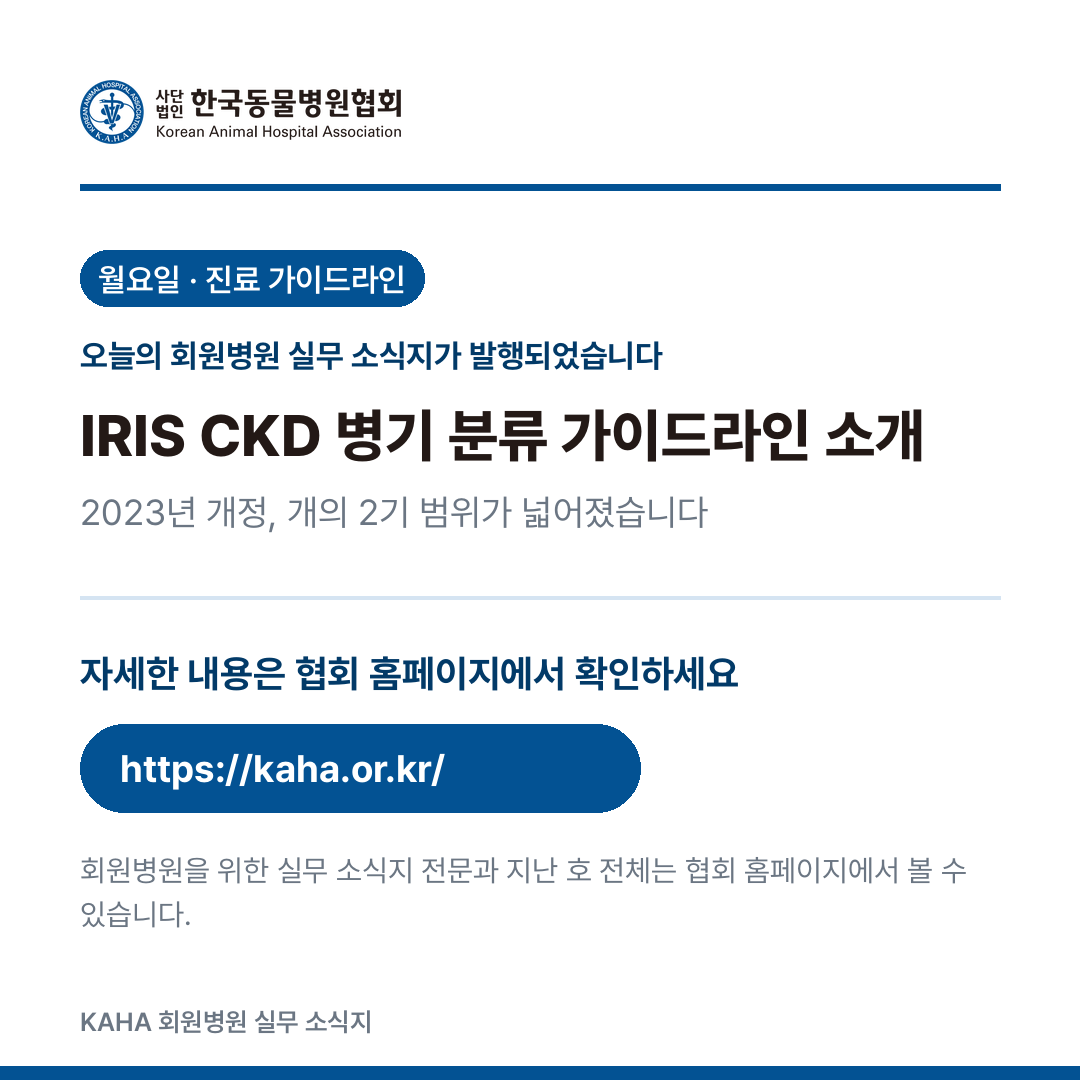
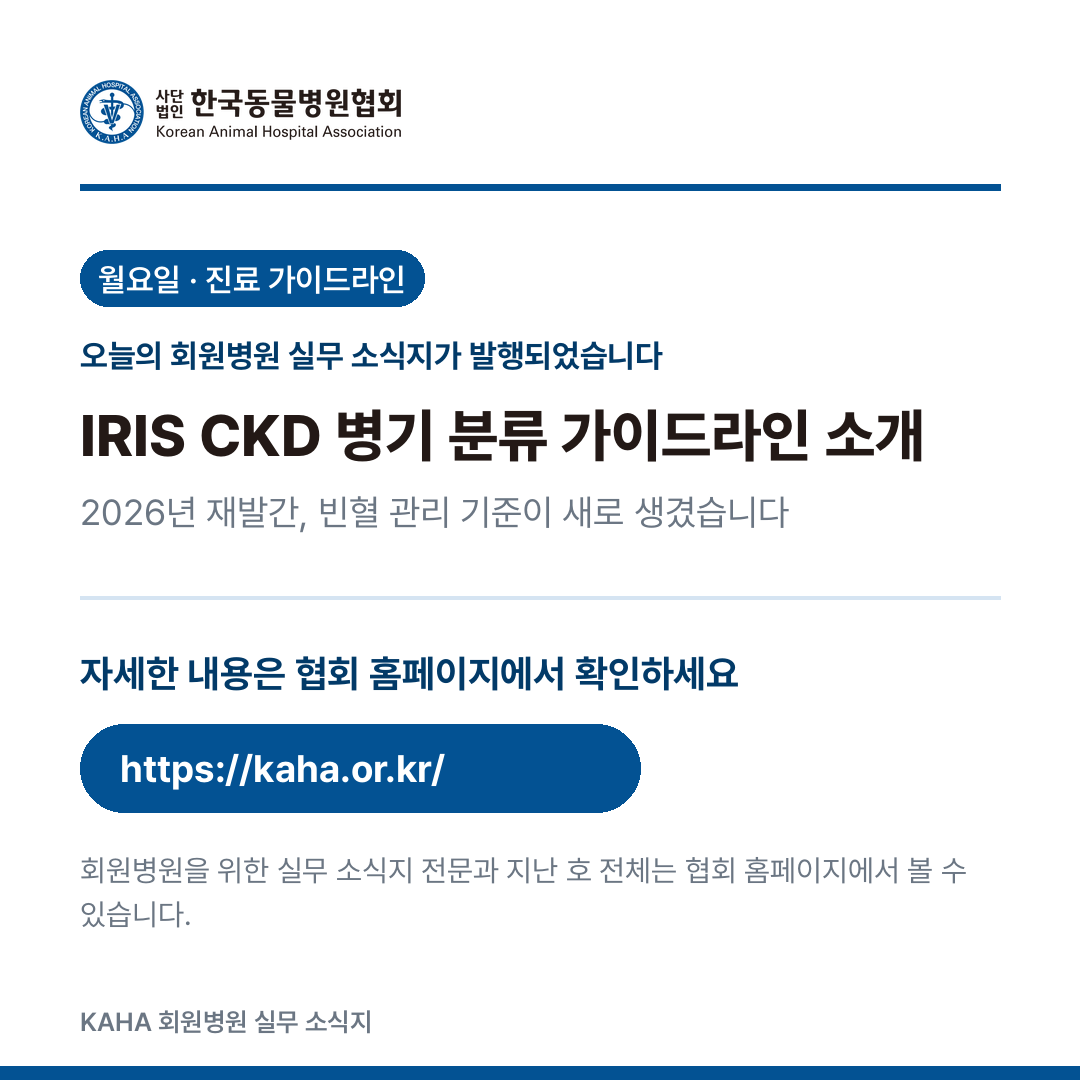
KAHA 소식지 2026-09-21 정정 — IRIS 2026년 재발간 반영
2023년 개정을 최신으로 소개했으나, IRIS가 2026년 6월 핵심 문서를
2026년판으로 재발표한 사실을 확인해 반영. 병기 구간 수치는 2023년판과
동일하나 SDMA 위상 격상, 빈혈 관리(HCT) 기준 신설, iCatCare 2026
고양이 CKD 가이드라인을 새로 추가. factcheck에 정정 경위 기록.

Claude-Session: https://claude.ai/code/session_01KasisTUkYZd84y4vpa2riW

Changed region(s): [[0.1833, 0.4583, 0.7333, 0.4889], [0.1222, 0.4583, 0.1528, 0.4889]]

diff --git a/issues/2026-09-21.md b/issues/2026-09-21.md
@@ -1,4 +1,4 @@
-# [월요일 · 진료 가이드라인] IRIS 만성신장병(CKD) 병기 분류 가이드라인 소개 — 2023년 개정, 개의 2기 범위가 넓어졌습니다
+# [월요일 · 진료 가이드라인] IRIS 만성신장병(CKD) 병기 분류 가이드라인 소개 — 2026년 재발간, 빈혈 관리 기준이 새로 생겼습니다
 
 > **KAHA 회원병원 실무 소식지** · 2026-09-21 (월) · 발행: 한국동물병원협회
 > 월요일은 해외 최신 진료 가이드라인을 소개해 드립니다. 반드시 원문과 함께 확인하세요.
@@ -7,11 +7,13 @@
 
 ## 무엇이 나왔나
 
-국제신장질환연구회(IRIS)는 개·고양이의 만성신장병(CKD)을 **혈청 크레아티닌(± SDMA)** 을 기준으로 1~4기로 나누고, 여기에 **단백뇨(UPC 비율)와 전신 혈압**으로 세부 병기(substage)를 더하는 병기 분류 체계를 제시합니다. 진단명이 같아도 병기에 따라 권고되는 검사 주기와 관리 강도가 달라지므로, 국제적으로 가장 널리 인용되는 수의 신장내과 분류 기준입니다. 2023년 개정에서는 **개의 병기 구간이 조정**되었는데, 기존 3기 안에 임상증상이 거의 없는 개부터 심한 요독 증상을 보이는 개까지 편차가 너무 크다는 문제 때문에 2기 범위를 넓히고 3기 하한을 올렸습니다. 이번 호에서는 개정된 병기표와 세부 병기 기준을 소개합니다.
+국제신장질환연구회(IRIS)는 개·고양이의 만성신장병(CKD)을 **혈청 크레아티닌(± SDMA)** 을 기준으로 1~4기로 나누고, 여기에 **단백뇨(UPC 비율)와 전신 혈압**으로 세부 병기(substage)를 더하는 병기 분류 체계를 제시합니다. 진단명이 같아도 병기에 따라 권고되는 검사 주기와 관리 강도가 달라지므로, 국제적으로 가장 널리 인용되는 수의 신장내과 분류 기준입니다.
+
+IRIS 이사회는 2026년 6월, 병기 분류(CKD Staging)·치료 권고(개·고양이)·급성신손상(AKI) 등급 문서를 **2026년판으로 다시 발표**했습니다. 병기 구간의 크레아티닌 수치 자체는 2023년 개정판(개의 2기 범위를 넓히고 3기 하한을 올린 개정)과 **동일하게 유지**되었고, 이번 2026년판의 핵심 변화는 **SDMA의 위상**과 **빈혈 관리 기준**입니다. 이번 호에서는 현재 유효한 병기표와 함께 2026년판에서 새로 추가된 내용을 소개합니다.
 
 ## 병기 분류표(혈청 크레아티닌 기준) — 이 가이드라인의 권고
 
-**개 (2023년 개정)**
+**개 (2026년판에도 유지된 2023년 개정 수치)**
 
 | 병기 | 크레아티닌 |
 |---|---|
@@ -31,12 +33,19 @@
 
 **2023년 개정의 핵심 — 개 2기·3기 경계가 바뀌었습니다.** 개정 전에는 개의 2기 상한이 더 낮고 3기 폭이 넓었는데, 2023년 개정에서 개의 2기 상한을 고양이와 같은 2.8mg/dL로 넓히고 3기를 2.9mg/dL부터 시작하도록 바꿨습니다. 그 결과 예전 기준이었다면 3기로 분류되었을, 임상증상이 거의 없는 개들이 이제 2기로 재분류됩니다. 1기는 수치가 정상 범위 안에 있어도 **요 농축력 저하, 신장 초음파 구조 이상, 지속적인 신성 단백뇨** 등 신장병의 다른 근거가 있으면 진단할 수 있다고 설명합니다.
 
-## SDMA — 이 가이드라인의 권고
+## SDMA — 2026년판에서 위상이 바뀌었습니다
 
-- IRIS는 크레아티닌만으로는 신장 기능 저하 초기를 놓칠 수 있어, **SDMA(대칭성 디메틸아르기닌)를 크레아티닌과 함께 병행 확인**하도록 권고합니다.
-- **SDMA 18μg/dL 미만**을 참고 범위(1기 수준)로 제시합니다. 이 값을 넘으면 신장 기능 저하를 의심할 근거로 볼 수 있다고 설명합니다.
-- 크레아티닌과 SDMA가 서로 다른 병기를 가리키면, **더 진행된 쪽 수치를 기준으로 병기를 정하도록** 권고합니다.
+- 이전까지 SDMA는 크레아티닌에 곁들이는 "권장 보조지표"로 소개되는 경우가 많았는데, **2026년판은 SDMA를 병기 판정의 필수 구성요소로 격상**해 강조합니다. 근육량 감소가 있는 환자에서는 크레아티닌보다 SDMA가 신장 기능 저하를 더 일찍 반영할 수 있다는 점이 근거입니다.
+- **SDMA 18μg/dL 미만**을 1기 수준의 참고 범위로 제시합니다(검사 키트별 정상 참고치는 통상 14 전후로 더 낮게 잡히는 경우가 많아, 두 수치가 다르다고 해서 오류는 아닙니다 — IRIS 병기 판정용 컷오프와 검사기관의 정상 참고구간은 별개로 관리됩니다).
+- 크레아티닌과 SDMA가 서로 다른 병기를 가리키면, **반복 측정으로 재확인한 뒤 더 진행된(높은) 쪽 수치를 기준으로 병기를 정하도록** 권고합니다.
 - 병기 판정은 **탈수되지 않은 안정 상태에서, 1주 이상 간격을 두고 2회 이상 측정**해 확인하도록 권고합니다(한 번의 수치로 단정하지 않음).
+
+## 빈혈 관리 — 2026년판에서 새로 생긴 기준
+
+- 2026년판 치료 권고에는 CKD 빈혈 치료를 시작할 **헤마토크릿(HCT) 수치 기준**이 처음으로 구체적으로 제시되었습니다.
+  - **개**: HCT 30% 미만이면 치료를 시작하고, 30～35% 사이가 지속되면 치료를 고려하도록 권고합니다.
+  - **고양이**: HCT 25% 미만이면 치료를 시작하고, 25～28% 사이가 지속되면 치료를 고려하도록 권고합니다.
+- 치료 옵션으로 기존의 다르베포에틴·수혈에 더해, **HIF-PH 억제제 계열(몰리두스타트 등)** 을 새로운 선택지로 언급합니다. 다만 이 계열 약물의 구체적 용법·용량은 검증 범위 내에서 신뢰할 수 있는 독립 출처를 충분히 교차 확인하지 못해 이번 호에는 싣지 않았습니다.
 
 ## 세부 병기(substage) — 이 가이드라인의 권고
 
@@ -61,6 +70,10 @@
 
 단백뇨와 고혈압은 같은 병기 안에서도 따로, 또는 함께 나타날 수 있어 병기마다 개별적으로 확인하도록 권고합니다.
 
+## 고양이는 별도로, 10년 만의 대규모 개정도 있었습니다
+
+IRIS 자체 문서와는 별개로, 고양이 임상만 다루는 국제 자문기구인 **iCatCare**가 2026년 *Journal of Feline Medicine and Surgery*에 고양이 CKD 진단·관리에 관한 합의 가이드라인을 새로 발표했습니다. 관련 소개 자료에 따르면 **10년 만의 첫 대규모 개정**이라고 합니다. 이 가이드라인은 고령묘에서 SDMA 18μg/dL 이상을 기준으로 삼자는 제안도 포함하고 있는데, 이는 IRIS의 공식 병기 컷오프 변경이 아니라 **iCatCare 측의 별도 제안**이므로 구분해서 받아들이시기 바랍니다.
+
 ## 국내 근거 — 제도화된 기준은 확인되지 않았고, 협회 양식에는 이미 관련 안내문이 있습니다
 
 - 국내에 IRIS에 준하는 정부·검역본부·국내 학회 차원의 공식 CKD 병기 분류 기준이 있는지는 검색 범위 내에서 확인되지 않았습니다. 국내 자료는 제한적이며, 이번 호는 해외 학술 지침의 소개에 그칩니다.
@@ -71,6 +84,7 @@
 - [ ] 크레아티닌 상승이나 임상 소견이 있는 환자에서 SDMA를 함께 확인하는가
 - [ ] 병기 판정 전, 안정 상태에서 간격을 두고 재검사해 확인하는가
 - [ ] 신장병 환자에서 UPC(단백뇨)와 혈압을 정기적으로 함께 확인하는가
+- [ ] 진행성 CKD 환자에서 헤마토크릿(HCT)을 정기적으로 확인하고, 기준 이하로 떨어지면 빈혈 관리를 검토하는가
 - [ ] 병기별로 재검사 주기와 관리 강도를 구분해 보호자에게 안내하는가
 - [ ] 보호자 설명 시 「만성 신장병 안내문」 등 문서를 함께 활용하는가
 
@@ -78,9 +92,11 @@
 
 - [IRIS Kidney 공식 — IRIS Staging System](https://www.iris-kidney.com/iris-staging-system)
 - [IRIS Kidney 공식 — IRIS Guidelines](https://www.iris-kidney.com/iris-guidelines-1)
+- [IRIS Staging of CKD (Modified 2026) — IRIS Kidney 공식 문서](https://static1.squarespace.com/static/666b9ecb4064a156963b4162/t/6a53129b031ea43169a7a89f/1783829156676/IRIS_staging_guidelines+2026.pdf)
 - [IDEXX: IRIS CKD Staging Guidelines for Cats and Dogs](https://www.idexx.com/en/veterinary/reference-laboratories/sdma/sdma-iris/)
 - [MSPCA-Angell: Proteinuria in Dogs](https://www.mspca.org/clinical/proteinuria-in-dogs/)
-- [Today's Veterinary Practice: IRIS CKD Staging (자료 아카이브)](https://todaysveterinarypractice.com/wp-content/uploads/sites/4/2022/02/IRIS_Staging_of_CKD_modified_2019.pdf)
+- [2026 iCatCare consensus guidelines on the diagnosis and management of chronic kidney disease in cats — J Feline Med Surg (SAGE, DOI: 10.1177/1098612X261466553)](https://doi.org/10.1177/1098612X261466553)
+- [dvm360: New iCatCare guidelines update feline chronic kidney disease care](https://www.dvm360.com/view/new-icatcare-guidelines-update-feline-chronic-kidney-disease-care)
 
 ## 인스타그램 카드뉴스
 
@@ -93,7 +109,7 @@
 ```
 [KAHA 회원병원 실무 소식지] IRIS CKD 병기 분류 가이드라인 소개 (9/21 월 · 진료 가이드라인)
 
-오늘 소식지 주제: 2023년 개정, 개의 2기 범위가 넓어졌습니다
+오늘 소식지 주제: 2026년 재발간, 빈혈 관리 기준이 새로 생겼습니다
 
 회원병원 실무 소식지 전문은 협회 홈페이지에서 확인하실 수 있습니다.
 https://kaha.or.kr/

diff --git a/factcheck/2026-09-21.md b/factcheck/2026-09-21.md
@@ -2,7 +2,7 @@
 
 검증일: 2026-09-21 · 검증 방법: 웹 검색 교차검증(복수의 독립적인 수의 전문매체·자료 대조) + 저장소 기존 자료(`data/diseases.json`, `forms.json`) 대조
 
-> **검증 환경 제약** — 이 작업 환경은 iris-kidney.com·wsava.org·pmc.ncbi.nlm.nih.gov 등 다수 사이트가 egress 프록시로 직접 접속이 차단되어 원문을 직접 열람하지 못했습니다. 검색 스니펫 중 서로 다른 운영 주체의 자료가 동일 수치를 반복 제시하는지로 신뢰도를 판단했습니다. **SDMA의 병기별(2~4기) 세부 구간 수치는 검색마다 서로 다른 값(예: 2기 상한이 25 vs 35)이 나와 교차 일치에 실패했으므로 본문에서 뺐습니다** — Stage 1 컷오프(18 미만)만 모든 검색에서 일관되게 확인되어 그 값만 실었습니다.
+> **검증 환경 제약** — 이 작업 환경은 iris-kidney.com·wsava.org·pmc.ncbi.nlm.nih.gov·static1.squarespace.com·idexx.com·vetdiagnostix.com.ph 등 다수 사이트가 egress 프록시로 직접 접속이 차단되어 원문을 직접 열람하지 못했습니다. 검색 스니펫 중 서로 다른 운영 주체의 자료가 동일 수치를 반복 제시하는지로 신뢰도를 판단했습니다. **SDMA의 병기별(2~4기) 세부 구간 수치는 검색마다 서로 다른 값(예: 2기 상한이 25 vs 35)이 나와 교차 일치에 실패했으므로 본문에서 뺐습니다** — Stage 1 컷오프(18 미만)만 모든 검색에서 일관되게 확인되어 그 값만 실었습니다.
 
 | # | 본문 주장 | 판정 | 근거 |
 |---|---|---|---|
@@ -16,6 +16,12 @@
 | 8 | 단백뇨 치료 권고 — IRIS는 개에서 UPC >0.5일 때 ACE억제제·ARB 등으로 단백뇨 치료를 권고 | ✅ 확인 | 검색 결과: "IRIS guidelines recommend treatment of proteinuria in CKD dogs when UPC >0.5 using ACE inhibitors or ARBs" |
 | 9 | 국내 — 정부·국내 학회 차원의 별도 공식 CKD 병기 분류 기준이 있는지는 확인되지 않음(검색 범위 내 미발견) | ✅ 확인(미발견) | 검색 범위 내 정부·검역본부·국내 학회 공식 병기 기준 미확인 |
 | 10 | 국내 연결 — 협회 양식자료실에 이미 「만성 신장병 안내문」(질환 안내문, `data/diseases.json`/`forms.json` 등재)이 있음 | ✅ 확인(저장소 원문 직접 대조) | `forms.json`: `forms/08_질환안내문/01_신장비뇨기/만성신장병안내문_한국동물병원협회.pdf`/`.docx` 경로 확인 |
+| 11 | IRIS 이사회가 2026년 6월 CKD Staging·CKD Treatment Recommendations(개·고양이)·AKI Grading 문서를 **2026년판으로 재발표**함. 병기 구간의 크레아티닌 수치는 2023년판과 동일하게 유지됨 | ✅ 확인 (독립 소스 3건 이상 일치) | 검색 결과 교차 확인: "The IRIS Board has reissued its core reference documents...as 2026 revisions", "Most of the diagnostic framework is unchanged from the 2023 guidelines" — vetdiagnostix.com.ph, IRIS Kidney 자체 문서 호스팅(static1.squarespace.com의 `IRIS_staging_guidelines+2026.pdf`), IDEXX(`iris-pocket-guide-2.pdf`) 등 서로 다른 주체의 자료에서 "2026년판" 존재 자체는 일관되게 확인 |
+| 12 | 2026년판에서 **SDMA가 선택적 보조지표에서 병기 판정의 필수 구성요소로 격상**됨. 크레아티닌·SDMA가 불일치하면 반복 측정 후 더 진행된 쪽으로 병기 | ✅ 확인 (복수 검색 일치) | 검색 결과: "SDMA is no longer simply an optional biomarker...now considered an integral component of CKD staging", "IRIS recommends staging according to the persistently more advanced marker after confirming repeat results" |
+| 13 | 2026년판 빈혈 치료 기준 — 개: HCT 30% 미만 치료 시작 / 30~35% 지속 시 치료 고려, 고양이: HCT 25% 미만 치료 시작 / 25~28% 지속 시 치료 고려 | ✅ 확인 (독립 검색 2회 동일 수치 재확인) | 두 차례의 별도 검색에서 동일한 수치("dogs: treat at HCT <30%, or persistent anaemia at 30–35%; cats: treat at HCT <25%, or persistent anaemia at 25–28%")가 반복 확인됨 |
+| 14 | HIF-PH 억제제 계열(몰리두스타트 등)이 다르베포에틴·수혈과 함께 빈혈 치료 옵션으로 2026년판에 언급됨. **단, 구체적 용법·용량(예: 5mg/kg q24h)은 단일 검색 소스에서만 확인되어 본문에서 제외** | ⚠ 표현 수정(약물 계열 언급만 유지, 용량 미기재) | 약물 계열 자체는 clinician's brief 기사 등에서도 별도 확인되나, 정확한 투여 스케줄은 1건의 검색 요약에서만 나와 교차 검증 실패 — 본문에는 "새로운 선택지로 언급"까지만 기재 |
+| 15 | 2026년 iCatCare(국제고양이질환자문위원회)가 *Journal of Feline Medicine and Surgery*에 고양이 CKD 합의 가이드라인을 새로 발표(10년 만의 첫 대규모 개정), DOI 10.1177/1098612X261466553 | ✅ 확인 | DOI 링크(SAGE 저널) 확인, dvm360 별도 보도 확인, 저자진(Samantha Taylor, Natalie Finch, Sarah Caney, Jonathan Elliott 등)이 검색 결과에 실명으로 일관되게 등장 |
+| 16 | iCatCare 2026 가이드라인은 고령묘에서 SDMA 18μg/dL 이상을 기준으로 삼자는 **제안**을 담고 있음(IRIS의 공식 병기 컷오프 변경이 아님) | ✅ 확인 | 검색 결과: "proposed higher SDMA threshold of 18 µg/dL or greater for older cats, compared with the standard cutoff of more than 14 µg/dL" — "proposed"로 명시되어 있어 확정된 IRIS 기준과 구분해 서술함 |
 
 ## 본문에서 제외한 항목 (검증 실패·근거 불충분 — 싣지 않음)
 
@@ -25,7 +31,7 @@
 
 ## 발행 전 정정 사항
 
-- 정정 없음 (신규 작성 호).
+- **최초 작성본은 "2023년 개정"을 최신 버전으로 소개했으나, 발행 직후 원장 질의를 계기로 재검색한 결과 IRIS 이사회가 2026년 6월 핵심 문서를 2026년판으로 재발표한 사실을 확인했습니다.** 병기 구간의 크레아티닌 수치 자체는 2023년판과 동일하게 유지되어 기존 표는 그대로 두었으나, 제목·도입부·SDMA 설명을 2026년판 기준으로 정정하고 **빈혈 관리 기준(HCT 컷오프)·SDMA 위상 격상·iCatCare 2026 고양이 가이드라인** 내용을 새로 추가했습니다. 카드뉴스 부제도 함께 갱신했습니다.
 
 ## 주제 중복 점검
 
